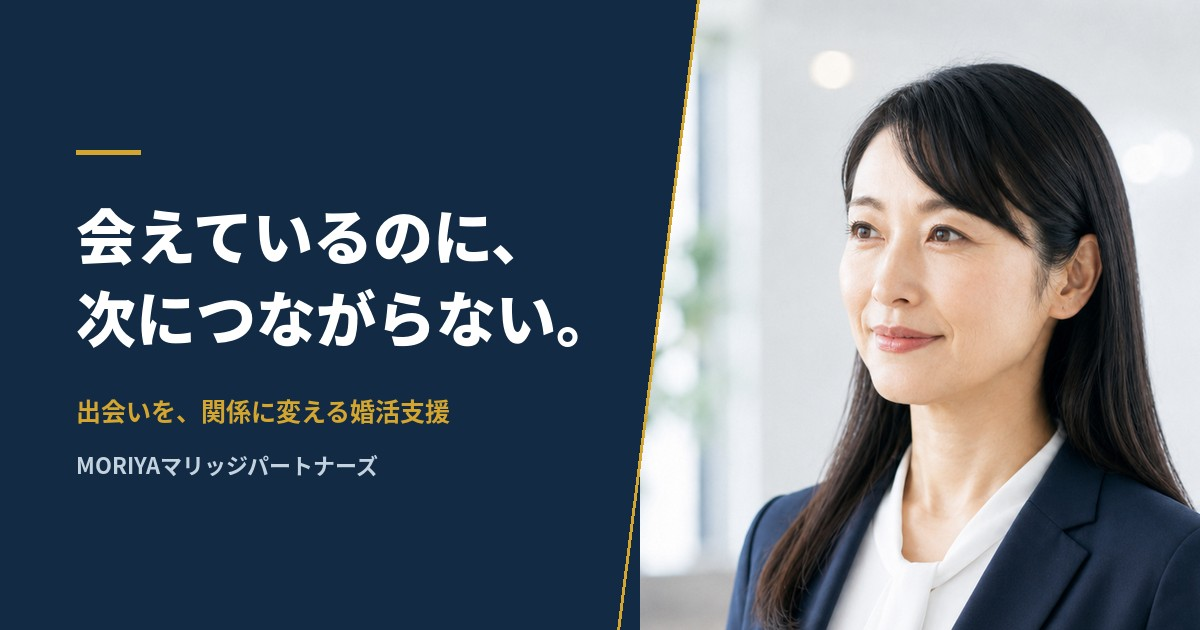
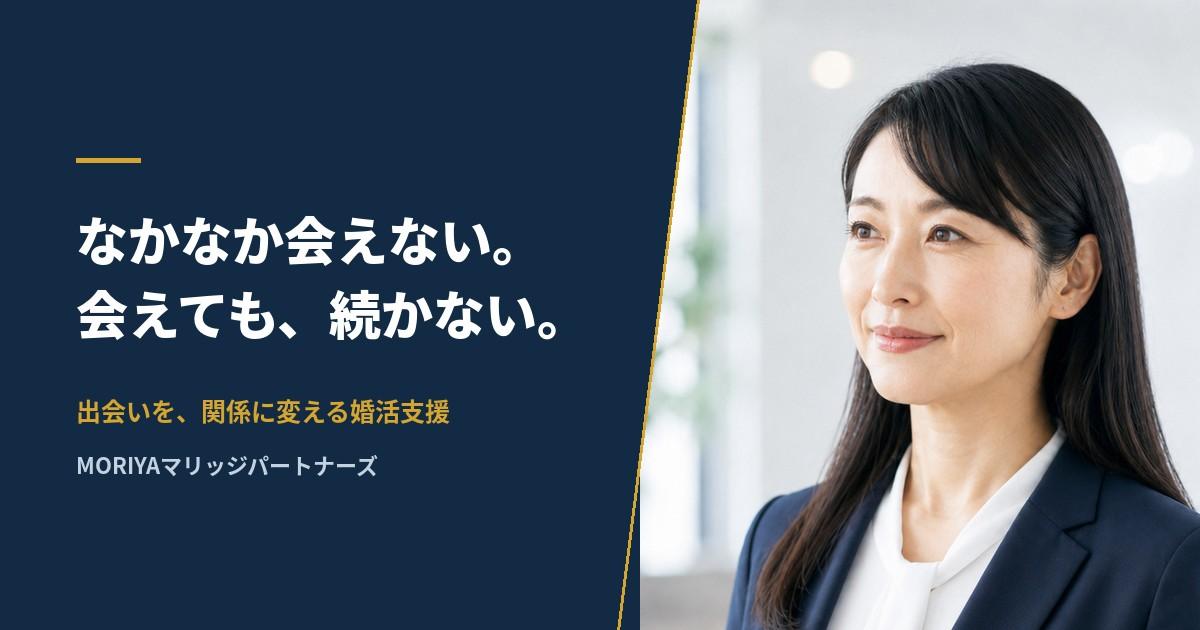
Add files via upload

Changed region(s): [[0.0617, 0.4524, 0.4933, 0.573], [0.0617, 0.3317, 0.4317, 0.4222], [0.0617, 0.2111, 0.1233, 0.2714]]

diff --git a/index.html b/index.html
@@ -9,7 +9,7 @@
 <meta name="robots" content="index, follow">
 
 <meta property="og:type" content="website">
-<meta property="og:title" content="会えているのに、次につながらない。｜MORIYAマリッジパートナーズ">
+<meta property="og:title" content="なかなか会えない。会えても、続かない。｜MORIYAマリッジパートナーズ">
 <meta property="og:description" content="出会いを、関係に変える婚活支援。会話・LINE・デートの詰まりを見える化し、練習と実践で改善します。">
 <meta property="og:image" content="ogp.jpg">
 <meta property="og:image:width" content="1200">
@@ -60,7 +60,7 @@
   --prose:680px;
   --hd:64px;
 
-  --fs-h1:34px;  --lh-h1:1.35;
+  --fs-h1:clamp(26px,8vw,34px); --lh-h1:1.38;
   --fs-h2:27px;  --lh-h2:1.45;
   --fs-h3:20px;  --lh-h3:1.5;
   --fs-body:16px;--lh-body:1.85;
@@ -95,6 +95,7 @@
 html{-webkit-text-size-adjust:100%;scroll-behavior:smooth}
 body{
   margin:0;
+  word-break:auto-phrase;
   padding-top:var(--hd);
   font-family:var(--font-jp);
   font-weight:400;
@@ -141,6 +142,8 @@ a.sr-only:focus{
 /* ============================================================
    TYPE
    ============================================================ */
+p,li{text-wrap:pretty}
+.pw > span{display:inline-block}
 h1,.h1{font-size:var(--fs-h1);font-weight:800;line-height:var(--lh-h1);letter-spacing:.01em;color:var(--t-head)}
 h2,.h2{font-size:var(--fs-h2);font-weight:700;line-height:var(--lh-h2);letter-spacing:.02em;color:var(--t-head)}
 h3,.h3{font-size:var(--fs-h3);font-weight:700;line-height:var(--lh-h3);color:var(--t-head)}
@@ -290,9 +293,13 @@ h3,.h3{font-size:var(--fs-h3);font-weight:700;line-height:var(--lh-h3);color:var
 .hero__micro{font-size:13.5px;color:var(--t-sub);line-height:1.7}
 
 .hero__media{position:relative;border-radius:var(--card-r);overflow:hidden;box-shadow:0 14px 36px rgba(18,42,67,.12)}
-.hero__media img{width:100%;height:238px;object-fit:cover;object-position:50% 16%}
-@media (min-width:640px){ .hero__media img{height:320px;object-position:50% 18%} }
-@media (min-width:1024px){ .hero__media img{height:604px;object-position:50% 26%} }
+.hero__media img{width:100%;aspect-ratio:5/4;object-fit:cover;object-position:50% 15%}
+@media (max-width:1023px){
+  .hero__media,.hero__copy{max-width:560px;margin-inline:auto;width:100%}
+}
+@media (min-width:1024px){
+  .hero__media img{aspect-ratio:auto;height:604px;object-position:50% 26%}
+}
 
 /* ============================================================
    CARDS / GRIDS
@@ -330,7 +337,9 @@ h3,.h3{font-size:var(--fs-h3);font-weight:700;line-height:var(--lh-h3);color:var
    ============================================================ */
 .ba{display:grid;gap:20px}
 @media (min-width:900px){ .ba{grid-template-columns:1fr 1fr;gap:24px;align-items:stretch} }
-.ba__col{border-radius:var(--card-r);padding:26px 22px;border:1px solid var(--line);display:flex;flex-direction:column}
+.ba{min-width:0}
+.ba__col{border-radius:var(--card-r);padding:26px 18px;border:1px solid var(--line);display:flex;flex-direction:column;min-width:0}
+@media (min-width:400px){ .ba__col{padding:26px 22px} }
 @media (min-width:768px){ .ba__col{padding:32px 28px} }
 .ba__col--before{background:var(--white)}
 .ba__col--after{background:var(--navy-deep);border-color:var(--navy-deep);color:var(--t-white)}
@@ -495,8 +504,10 @@ h3,.h3{font-size:var(--fs-h3);font-weight:700;line-height:var(--lh-h3);color:var
 .case__meta{display:flex;align-items:center;gap:12px;margin-bottom:18px}
 .case__avatar{
   flex:none;width:44px;height:44px;border-radius:50%;background:var(--pale);
-  display:flex;align-items:center;justify-content:center;color:var(--navy-mid);
+  display:flex;align-items:center;justify-content:center;color:var(--navy);
 }
+.case__avatar--2{background:var(--gray)}
+.case__avatar--3{background:var(--gold-soft);color:var(--navy-deep)}
 .case__who{font-size:15px;font-weight:700;color:var(--navy-deep);line-height:1.5}
 .case__situation{
   font-size:15.5px;font-weight:700;color:var(--navy-deep);line-height:1.6;
@@ -767,12 +778,12 @@ h3,.h3{font-size:var(--fs-h3);font-weight:700;line-height:var(--lh-h3);color:var
     <div class="hero__copy">
       <p class="hero__label" data-ibj hidden>IBJ正規加盟店 &times; 関係構築コーチング</p>
 
-      <h1>会えているのに、<br>次につながらない。</h1>
+      <h1>なかなか会えない。<br>会えても、続かない。</h1>
 
-      <p class="hero__sub">婚活の詰まりを見える化し、<br>会話・LINE・デートを練習と実践で改善する。</p>
-      <p class="hero__sub">理想の相手に好かれる自分になる。</p>
+      <p class="hero__sub pw"><span>婚活の詰まりを見える化し、</span><span>会話・LINE・デートを</span><span>練習と実践で改善する。</span></p>
+      <p class="hero__sub pw"><span>理想の相手に好かれる自分になるための</span><span>徹底サポート。</span></p>
 
-      <p class="hero__supp">マッチングアプリでも、結婚相談所でも。<br>出会った後の関係づくりまで具体的に支援します。</p>
+      <p class="hero__supp pw"><span>マッチングアプリでも、結婚相談所でも。</span><span>出会った後の関係づくりまで</span><span>具体的に支援します。</span></p>
 
       <ul class="trust">
         <li>オンラインで全国対応</li>
@@ -782,9 +793,9 @@ h3,.h3{font-size:var(--fs-h3);font-weight:700;line-height:var(--lh-h3);color:var
 
       <div class="hero__actions">
         <a class="btn" href="https://timerex.net/s/ba.08h_1a1f/83cf8db1" data-cta="cta_hero">
-          30分の無料婚活ボトルネック診断を予約する<i class="arw" aria-hidden="true"></i>
+          <span class="pw"><span>30分の無料婚活</span><span>ボトルネック診断を</span><span>予約する</span></span><i class="arw" aria-hidden="true"></i>
         </a>
-        <p class="hero__micro">30分で、現在の課題・優先順位・次の一手を整理します。</p>
+        <p class="hero__micro pw"><span>30分で、現在の課題・優先順位・</span><span>次の一手を整理します。</span></p>
         <a class="btn-ghost" href="#method">支援内容を見る</a>
       </div>
     </div>
@@ -1065,7 +1076,7 @@ h3,.h3{font-size:var(--fs-h3);font-weight:700;line-height:var(--lh-h3);color:var
   <div class="wrap">
     <div class="sec-head reveal">
       <p class="eyebrow">実績と、その裏づけ</p>
-      <h2>20数名を個別に指導し、<br>半数以上が交際に至りました。</h2>
+      <h2>20数名を個別に指導し、<br>50％以上が交際に至りました。</h2>
       <p>指導した人数と、その後どうなったかを、そのままお伝えします。</p>
     </div>
 
@@ -1076,7 +1087,7 @@ h3,.h3{font-size:var(--fs-h3);font-weight:700;line-height:var(--lh-h3);color:var
       </div>
       <div class="stat">
         <p class="stat__label">そのうち交際に至った方</p>
-        <p class="stat__value"><b class="word">半数</b><span>以上</span></p>
+        <p class="stat__value"><b class="num">50</b><span>％以上</span></p>
       </div>
     </div>
 
@@ -1102,7 +1113,7 @@ h3,.h3{font-size:var(--fs-h3);font-weight:700;line-height:var(--lh-h3);color:var
           <svg width="26" height="26" viewBox="0 0 24 24" fill="none" stroke="currentColor" stroke-width="1.6" stroke-linecap="round" stroke-linejoin="round"><path d="M3.4 20.6h17.2M3.4 20.6V4"/><path d="M6.6 16.4l4-4.4 3 2.8 5.2-6"/><path d="M14.8 8.8h4v4.2"/></svg>
         </span>
         <h3>確かな育成実績</h3>
-        <p>マッチングアプリ運営会社で男性向けコーチング指導の総責任者を務め、20数名を個別に指導。半数以上が交際に至っています。</p>
+        <p>マッチングアプリ運営会社で男性向けコーチング指導の総責任者を務め、20数名を個別に指導。50％以上が交際に至っています。</p>
       </div>
     </div>
 
@@ -1131,7 +1142,8 @@ h3,.h3{font-size:var(--fs-h3);font-weight:700;line-height:var(--lh-h3);color:var
     <div class="sec-head reveal">
       <p class="eyebrow">事例</p>
       <h2>行動を変えた方の事例</h2>
-      <p>掲載は、ご本人の許可を得た内容に限っています。結果には個人差があります。</p>
+      <p>やり方を一方的に押し付けることはしません。なぜその行動が必要なのかを一緒に確認し、ご自身が納得したうえで試していただきます。納得して選んだ行動だからこそ続き、結果につながります。</p>
+      <p class="note" style="margin-top:14px">掲載は、ご本人の許可を得た内容に限っています。結果には個人差があります。</p>
     </div>
 
     <div class="cases__nav reveal">
@@ -1249,7 +1261,7 @@ h3,.h3{font-size:var(--fs-h3);font-weight:700;line-height:var(--lh-h3);color:var
 
     <div class="cta-block reveal">
       <a class="btn" href="https://timerex.net/s/ba.08h_1a1f/83cf8db1" data-cta="cta_pricing">
-        料金と自分に合う支援内容を無料相談で確認する<i class="arw" aria-hidden="true"></i>
+        <span class="pw"><span>料金と自分に合う支援内容を</span><span>無料相談で確認する</span></span><i class="arw" aria-hidden="true"></i>
       </a>
       <p class="note micro">金額や内容を確認したうえで、ご判断ください。無理な勧誘は行いません。</p>
     </div>
@@ -1293,9 +1305,8 @@ h3,.h3{font-size:var(--fs-h3);font-weight:700;line-height:var(--lh-h3);color:var
         <ul>
           <li>出会いの数だけを増やしたい</li>
           <li>自分の行動を一切変えたくない</li>
-          <li>短期間で魔法のような結果を期待している</li>
           <li>女性を攻略する方法だけを求めている</li>
-          <li>交際や成婚の保証を求めている</li>
+          <li>交際や成婚の100％保証を求めている</li>
         </ul>
       </div>
     </div>
@@ -1344,7 +1355,7 @@ h3,.h3{font-size:var(--fs-h3);font-weight:700;line-height:var(--lh-h3);color:var
 
         <div style="margin-top:36px">
           <a class="btn" href="https://timerex.net/s/ba.08h_1a1f/83cf8db1" data-cta="cta_consult">
-            30分の無料婚活ボトルネック診断を予約する<i class="arw" aria-hidden="true"></i>
+            <span class="pw"><span>30分の無料婚活</span><span>ボトルネック診断を</span><span>予約する</span></span><i class="arw" aria-hidden="true"></i>
           </a>
           <ul class="tick">
             <li>オンライン対応</li>
@@ -1488,7 +1499,7 @@ h3,.h3{font-size:var(--fs-h3);font-weight:700;line-height:var(--lh-h3);color:var
       </div>
       <div style="margin-top:32px">
         <a class="btn" href="https://timerex.net/s/ba.08h_1a1f/83cf8db1" data-cta="cta_final">
-          30分の無料婚活ボトルネック診断を予約する<i class="arw" aria-hidden="true"></i>
+          <span class="pw"><span>30分の無料婚活</span><span>ボトルネック診断を</span><span>予約する</span></span><i class="arw" aria-hidden="true"></i>
         </a>
         <ul class="trust" style="margin-top:20px">
           <li>オンライン対応</li>
@@ -1723,12 +1734,17 @@ var CASES = [
   }); }
 
   if (track_) {
+    var AVATARS = [
+      '<circle cx="12" cy="8" r="3.5"/><path d="M4.9 20a7.1 7.1 0 0 1 14.2 0"/>',
+      '<circle cx="12" cy="8.4" r="3.5"/><path d="M8.3 6.7c1.1-2.1 6-2.4 7.3-.5"/><path d="M4.3 20.4a7.7 7.7 0 0 1 15.4 0"/>',
+      '<circle cx="12" cy="8" r="3.5"/><path d="M4.9 20a7.1 7.1 0 0 1 14.2 0"/><circle cx="10.4" cy="7.9" r="1.1"/><circle cx="13.6" cy="7.9" r="1.1"/><path d="M11.5 7.9h1"/>'
+    ];
     var list = CASES.filter(function (c) { return c.consent; }).slice(0, 10);
-    track_.innerHTML = list.map(function (c) {
+    track_.innerHTML = list.map(function (c, i) {
       return '<li class="card">' +
         '<div class="case__meta">' +
-          '<span class="case__avatar" aria-hidden="true">' +
-            '<svg width="22" height="22" viewBox="0 0 24 24" fill="none" stroke="currentColor" stroke-width="1.8" stroke-linecap="round"><circle cx="12" cy="8" r="3.6"/><path d="M4.8 20a7.2 7.2 0 0 1 14.4 0"/></svg>' +
+          '<span class="case__avatar case__avatar--' + ((i % 3) + 1) + '" aria-hidden="true">' +
+            '<svg width="22" height="22" viewBox="0 0 24 24" fill="none" stroke="currentColor" stroke-width="1.7" stroke-linecap="round" stroke-linejoin="round">' + AVATARS[i % 3] + '</svg>' +
           '</span>' +
           '<span class="case__who">' + esc(c.who) + '</span>' +
         '</div>' +

diff --git a/README.md b/README.md
@@ -138,7 +138,7 @@ LP内フォームが必要な場合は、フォーム専用のバックエンド
 |---|---|---|
 | 1 | IBJ加盟契約は完了しているか | `ibjMember: false`。未完了として全非表示 |
 | 2 | IBJロゴの使用許諾を得ているか | ロゴは一切使用していません |
-| 3 | **「20数名を個別に指導し、半数以上が交際に至った」の根拠資料** | 景品表示法上、この数値には合理的な根拠（指導記録等）の保管が必要です |
+| 3 | **「20数名を個別に指導し、50％以上が交際に至った」の根拠資料** | 景品表示法上、この数値には合理的な根拠（指導記録等）の保管が必要です |
 | 4 | 「交際に至った」の社内定義 | ページには表示していませんが、根拠資料側では定義を統一してください |
 | 5 | 実績の範囲 | 「マッチングアプリ運営会社での指導を含む」「IBJ会員限定ではない」「成婚実績ではない」と明記済み |
 | 6 | 事例3件の本人掲載許可 | `consent: true` で仮設定。**許可未取得なら `false` にしてください** |
@@ -274,7 +274,7 @@ LP内フォームが必要な場合は、フォーム専用のバックエンド
 
 ### 文言・事実
 - [ ] `{{ }}` の黄色い破線ボックスがページ上に1つも残っていない
-- [ ] 「20数名／半数以上」の根拠資料を保管している
+- [ ] 「20数名／50％以上」の根拠資料を保管している
 - [ ] 6か月の参考総額 608,000円（165,000＋28,000×6＋275,000）が正しい
 - [ ] 上記を成婚実績・IBJ実績として表示していない（現状していません）
 - [ ] 事例3件の本人掲載許可を取得した（未取得なら `consent: false`）
@@ -391,3 +391,43 @@ https://（公開URL）/?utm_source=instagram&utm_medium=cpc&utm_campaign=konkat
 - **①の削除範囲についてご確認ください。** 見出しだけでなくセクション全体を削除しました。代表カウンセラー（写真の女性）の紹介ブロックも消えています。紹介だけ残したい場合はお知らせください、すぐ戻せます。
 - 「プロによる服装・身だしなみ指導」は、月会費に含まれる基本アドバイスと区別するため**「専門スタッフの同行支援」**という書き分けにしました。実際の切り分けが違う場合はご指示ください。
 - 支援体制セクションの削除により事例（白）と料金が隣り合うため、**料金セクションの背景をウォームホワイトに変更**して区切りを保っています。
+
+
+---
+
+## 15. 今回の変更点（v4）
+
+| # | ご依頼 | 対応 |
+|---|---|---|
+| ① | H1変更 | 「なかなか会えない。／会えても、続かない。」に変更。OGP画像・og:titleも作り直しました |
+| ② | サブコピー | 「理想の相手に好かれる自分になるための徹底サポート。」に変更 |
+| ③ | 変な改行 | 日本語の文節単位で改行するよう全面対応（下記） |
+| ④ | 実績 | 見出し・数値カード・信頼性カードの「半数以上」を **50％以上** に変更 |
+| ⑤ | 事例のリード | 「やり方を一方的に押し付けることはしません。なぜその行動が必要なのかを一緒に確認し、ご自身が納得したうえで試していただきます。納得して選んだ行動だからこそ続き、結果につながります。」を追加 |
+| ⑥ | 事例アイコン | 3人それぞれ別の人物アイコンに変更（標準／髪あり／メガネ）。背景色もペールブルー／ライトグレー／薄いゴールドで差をつけました |
+| ⑦ | 向いていない方 | 「短期間で魔法のような結果を期待している」を削除。「交際や成婚の**100％**保証を求めている」に変更 |
+| ⑧ | トップ画像の顔アップ | 修正（下記） |
+
+### ③ 改行の修正内容
+
+3つの手当てを入れています。
+
+1. **主要コピーを文節単位のブロックに分割** — ヒーローのサブコピー・補足・マイクロコピー・CTAボタンの文言を `<span>` で文節ごとに区切り、途中で切れないようにしました。「改善す／る。」のような割れ方は起きません。
+2. **`word-break: auto-phrase` を全体に適用** — Chrome / Edge では、それ以外の文章も日本語の文節単位で改行されます（Safari・Firefoxでは無視されるだけで害はありません）。
+3. **H1の文字サイズを可変に** — `clamp(26px, 8vw, 34px)` にしました。320px〜430pxのどの端末でも「会えても、続かない。」が必ず1行に収まります（従来は360px幅で3行に割れていました）。
+
+見出しに `text-wrap: balance` は使っていません。手動の `<br>` で改行位置を設計しているため、ブラウザ側の自動調整とぶつかるためです。
+
+### ⑧ トップ画像の顔アップ修正
+
+原因は、写真の高さを固定値（320px）で指定していたことです。画面幅が広がると横だけ伸びて、縦方向が極端に切り取られ、顔だけが拡大される状態でした。
+
+- 高さ固定をやめ、**縦横比5:4**での表示に変更
+- 1023px以下では写真と本文を**最大560pxの中央寄せ**に制限
+- 1024px以上は従来どおり左カラム（高さ604px、ほぼ無加工の縦位置）
+
+320 / 360 / 375 / 414 / 733 / 820 / 1024 / 1280 / 1600px の9サイズで、顔の見え方と横スクロールが出ないことを確認済みです。
+
+### あわせて修正した点
+
+- 320px幅でBefore/Afterのカードが3px はみ出していたため、狭い画面での内側余白を調整しました（320pxでも横スクロールなし）
